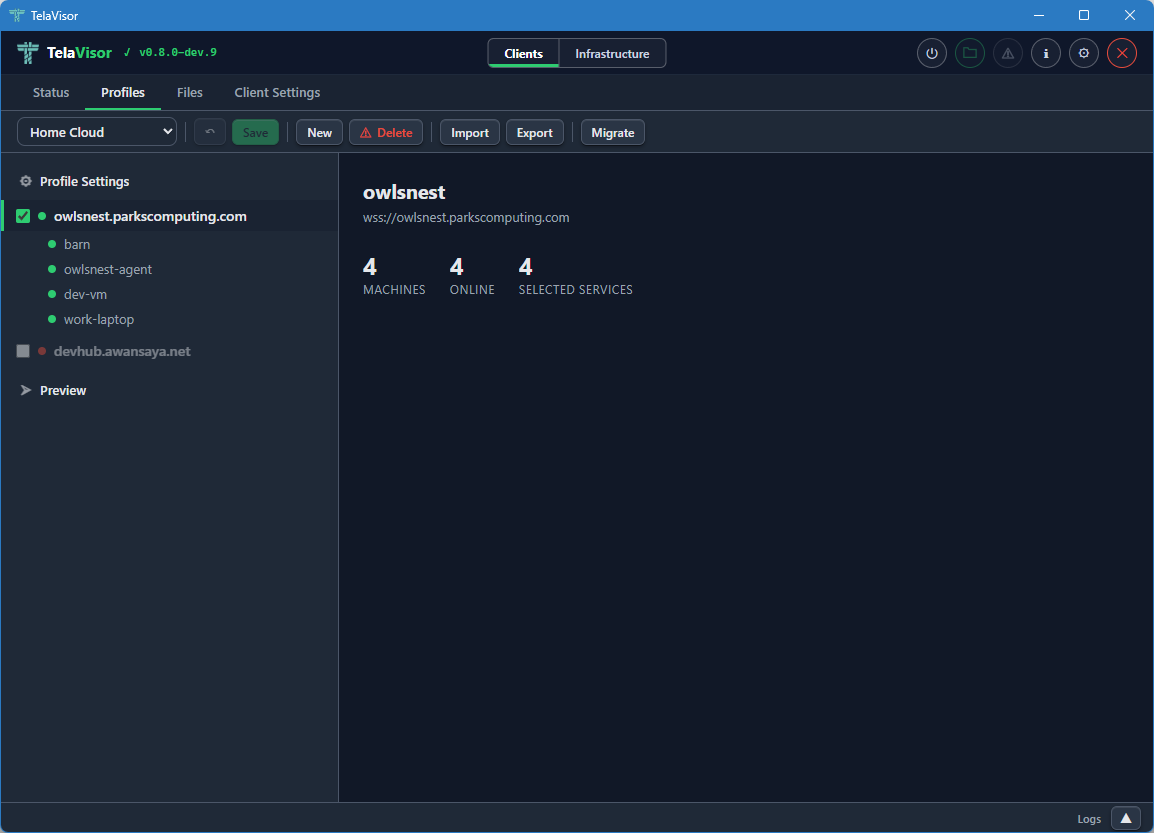
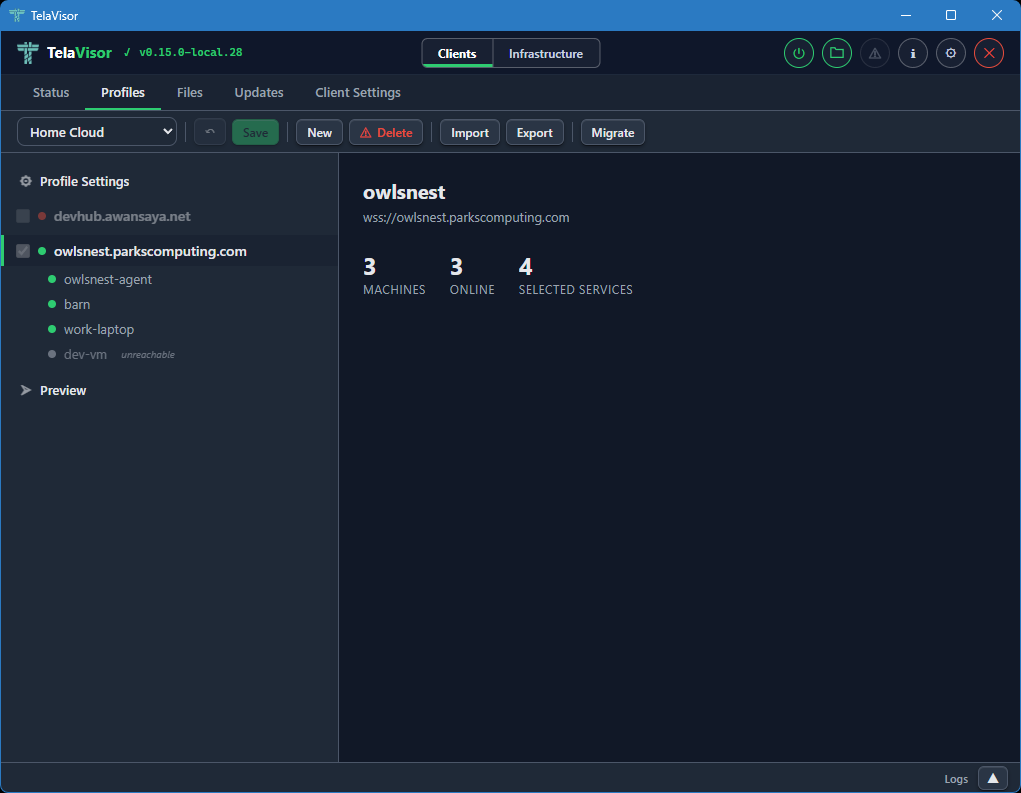
docs: refresh TelaVisor screenshots for v0.15 and document new surfaces
Refreshed the entire TelaVisor screenshot set against v0.15.0-local.29
(top of the v0.15.0-beta.1 line) and added shots for the surfaces that
landed in PR #70 but had no screenshots yet.

Screenshots:
- 22 existing shots refreshed in place: status (connected /
  disconnected / agent-log / log popover), profiles (settings / hub /
  machine), files (machines / browse), client-settings (top /
  scrolled), hub picker, hub settings, hub machines, hub history,
  agents (list / detail / fileshare / management / update / update2 /
  update3), about, app-settings (top / scrolled), credentials, remotes.
- 12 new shots: telavisor-updates and telavisor-updates-channel for the
  new Updates tab; telavisor-hub-settings-management and
  telavisor-hub-update for the Hub Settings Management section and the
  Update Hub modal; telavisor-agents-config for the View Config modal;
  telavisor-agents-generate and telavisor-agents-redeem for the agent
  pairing flows; telavisor-access-by-machine, -by-identity,
  -by-identity-owner, -wildcard, -add-identity, -pair-code for the new
  Access peer tab.
- 4 deleted as stale: telavisor-hub-tokens and telavisor-hub-access
  (the old Tokens / Access sub-views removed when the Access peer tab
  shipped); telavisor-agents-2 (orphan); telavisor-hub-settings-gohub
  (the dropped second-hub example shot).

Book chapter (book/src/guide/telavisor.md):
- Updates section now opens with a screenshot and includes the channel
[…]

diff --git a/book/src/guide/telavisor.md b/book/src/guide/telavisor.md
@@ -395,6 +395,8 @@ agent updates belong to the hub or the agent and are driven from the
 *Hubs* and *Agents* tabs in Infrastructure mode; the Updates tab
 does not touch them.
 
+![Updates tab](../screens/telavisor-updates.png)
+
 The tab header carries two controls in the top-right: a
 *Check automatically* checkbox and a *Check Now* button. The
 checkbox toggles the periodic background check (the same check
@@ -410,6 +412,8 @@ built-in channels (`dev`, `beta`, `stable`) plus every custom
 channel source the operator has added; custom channels are managed
 in [Client Settings](#client-settings), and the card footer links
 there directly.
+
+![Release Channel dropdown open](../screens/telavisor-updates-channel.png)
 
 **Installed Tools** is a table with a row for TelaVisor and a row
 for each managed binary. Each row shows the installed version, the
@@ -607,6 +611,8 @@ registered with. Each entry shows the directory name and the directory
 URL. Adding a portal here is the equivalent of running `telahubd portal
 add` from the command line.
 
+![Hub Settings, scrolled to Management](../screens/telavisor-hub-settings-management.png)
+
 The Management section provides hub lifecycle controls. These are only
 visible to owners and admins:
 
@@ -625,15 +631,20 @@ visible to owners and admins:
   via legacy path)`.
 - **Software.** Shows whether the hub is up to date or behind the
   channel's HEAD. The button label reads either `Up to date` (disabled)
-  or `Update to vX.Y.Z` (active). Clicking the active button asks the
-  hub to download the new release, verify it against the channel
-  manifest's SHA-256 hash, replace its binary, and restart. Progress is
-  shown inline (`Hub is downloading update and restarting...`,
-  `Waiting for hub to restart... (1)`, `Updated to vX.Y.Z`) and the
-  page re-renders when the hub comes back online. The label and
-  disabled state are derived from the channel manifest, not from the
-  GitHub `/releases/latest` API, so a hub on `dev` cannot be told to
-  "update to v0.5.0" (the `stable` HEAD).
+  or `Update to vX.Y.Z` (active). Clicking the active button opens a
+  confirmation dialog before proceeding.
+
+  ![Update Hub confirmation dialog](../screens/telavisor-hub-update.png)
+
+  The hub then downloads the new release, verifies it against the
+  channel manifest's SHA-256 hash, replaces its binary, and restarts.
+  Progress is shown inline (`Hub is downloading update and
+  restarting...`, `Waiting for hub to restart... (1)`,
+  `Updated to vX.Y.Z`) and the page re-renders when the hub comes
+  back online. The label and disabled state are derived from the
+  channel manifest, not from the GitHub `/releases/latest` API, so a
+  hub on `dev` cannot be told to "update to v0.5.0" (the `stable`
+  HEAD).
 - **Restart.** Requests an immediate graceful restart of the hub
   process.
 
@@ -643,11 +654,7 @@ hub itself, only your local credentials and view) and clearing all
 stored hub tokens from the local credential file.
 
 The Hub Settings view is the same shape regardless of which hub you have
-selected. The values change with the hub; the layout does not. A second
-hub on a different release version would show the same panels with
-different version badges.
-
-![Hub Settings for a second hub](../screens/telavisor-hub-settings-gohub.png)
+selected. The values change with the hub; the layout does not.
 
 #### Machines
 
@@ -746,6 +753,8 @@ command into chat, SSH, or a deployment script targeted at the agent
 host. Generation is enabled whenever TelaVisor knows about at least
 one hub; the call requires owner or admin credentials on that hub.
 
+![Generate Agent Code modal](../screens/telavisor-agents-generate.png)
+
 **Redeem...** opens a modal that runs `telad pair` against the local
 `telad` binary on this machine. Use it when an operator on this same
 workstation wants to register an agent here (developer workstations,
@@ -755,6 +764,8 @@ already knows about plus an *Other hub URL...* option for codes
 issued by hubs you have not added yet. On success, a confirmation
 modal names the hub and machine, and the agents list refreshes a
 moment later so the new entry appears.
+
+![Redeem Agent Code modal](../screens/telavisor-agents-redeem.png)
 
 When `telad` is not installed in the configured Binary Location, the
 Redeem modal opens in a short bail-out state explaining that
@@ -852,6 +863,8 @@ The Management card mirrors the layout of the hub Management card from
   through the management protocol so it reflects what the agent is
   actually using right now, not what is on disk in
   `telad.yaml`.
+
+  ![Agent config viewer](../screens/telavisor-agents-config.png)
 - **Log output.** A *View Logs* button that opens a new tab in the log
   panel and fetches the agent's recent log buffer through the
   `update-status` mgmt action via the hub's mediated management proxy.
@@ -935,10 +948,15 @@ Access opens on one of two projections of the same underlying data:
   matrix for the selected machine: every identity on the hub gets a
   row, with *Connect*, *Register*, and *Manage* checkboxes and an
   optional services filter.
+
+  ![Access tab, By machine view](../screens/telavisor-access-by-machine.png)
+
 - **By identity.** The sidebar lists every identity on the hub. The
   detail pane shows a machine-vs-permission matrix for the selected
   identity, with a row for every registered machine plus the
   wildcard `*` fallback.
+
+  ![Access tab, By identity view](../screens/telavisor-access-by-identity.png)
 
 The view toggle is in the right side of the toolbar. Switching
 between the two views does not lose staged work; both views read and
@@ -963,8 +981,13 @@ every action that operates on the current hub:
 - **Add Identity...** Creates a new token-backed identity. Opens a
   dialog asking for a name and a role; the new token is shown once
   in a follow-up dialog so the operator can copy it.
+
+  ![Add Identity dialog](../screens/telavisor-access-add-identity.png)
+
 - **Pair Code...** Generates a one-time pairing code for onboarding a
   new identity or agent.
+
+  ![Generate Pairing Code dialog](../screens/telavisor-access-pair-code.png)
 - **Rescan services.** Reloads access data and machine services from
   the hub. Use after changing an agent's `telad.yaml` so newly
   advertised services show up in the matrix.
@@ -1023,6 +1046,8 @@ checkbox in that case is checked and disabled with a tooltip that
 points the operator at the wildcard row in the rail; per-machine
 overrides are not possible because the underlying ACL model has no
 deny semantic.
+
+![Wildcard ACL inheritance shown in the matrix](../screens/telavisor-access-wildcard.png)
 
 The per-row **Edit...** button opens a dialog to narrow or widen the
 filter. The dialog offers two scopes:
@@ -1090,6 +1115,8 @@ For owner, admin, and viewer rows, the detail pane shows an
 explanatory card instead of a matrix. Owner and admin have implicit
 all-machine access that is not manageable per-machine; viewer is
 read-only console access with no machine permissions at all.
+
+![By identity view, owner identity selected](../screens/telavisor-access-by-identity-owner.png)
 
 ### Remotes
 

diff --git a/README.md b/README.md
@@ -91,6 +91,8 @@ The Hub Settings view exposes lifecycle controls (View Logs, Update, Restart) an
 
 The Access tab lets you create identities, rotate tokens, change roles, delete identities, grant and revoke per-machine permissions (including per-service filters on the connect grant), and generate one-time pairing codes. Changes are staged as a batch and committed with optimistic concurrency, so a concurrent edit by another operator surfaces as a conflict dialog rather than a silent overwrite.
 
+![TelaVisor Access tab](book/src/screens/telavisor-access-by-identity.png)
+
 The Agents tab lists all telad instances visible across your configured hubs without requiring an active tunnel connection. Each agent shows version, services, file share configuration, and management controls. The Software row updates the agent binary in place by downloading from GitHub releases and restarting through the OS service manager.
 
 ![TelaVisor Agents tab](book/src/screens/telavisor-agents.png)
